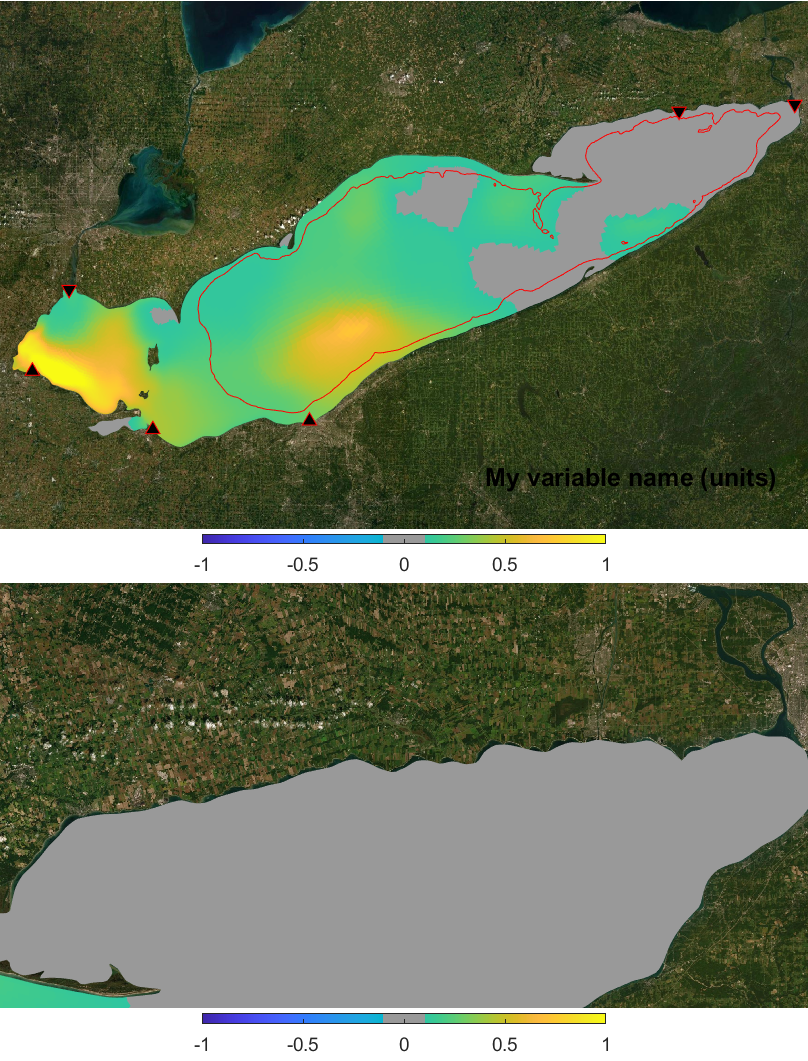
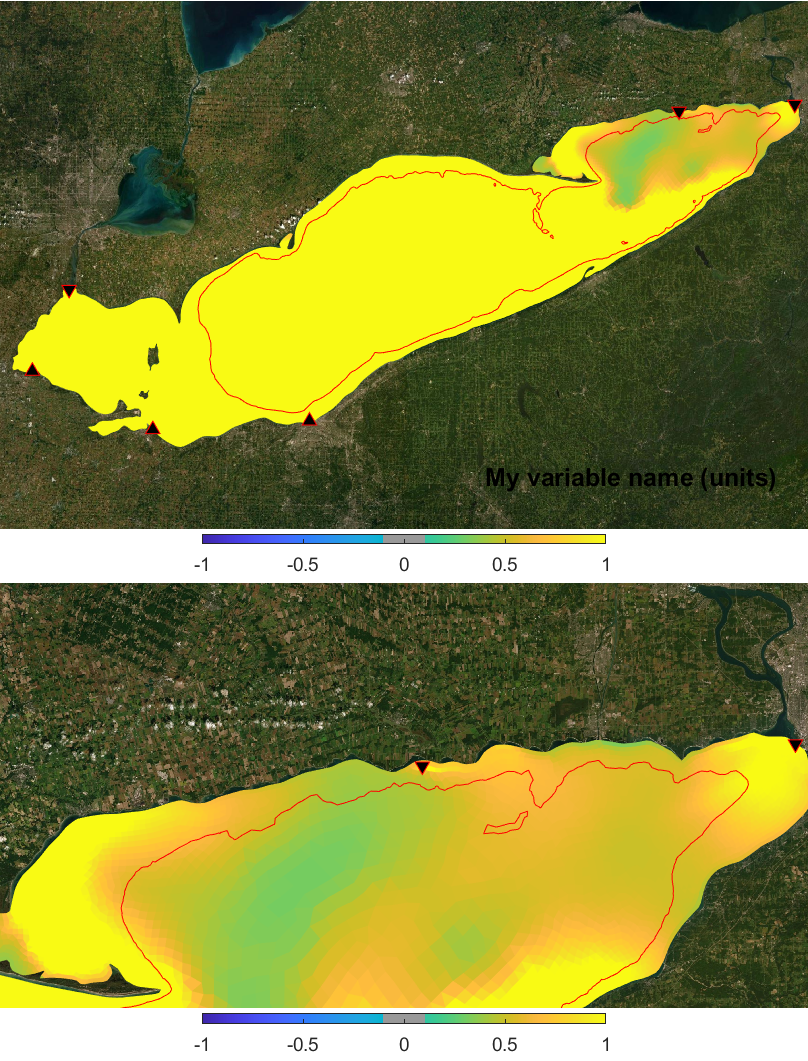
Added loops and stuff

diff --git a/matlab/Delmaps/run_plot.m b/matlab/Delmaps/run_plot.m
@@ -4,22 +4,69 @@ clear all; close all;
 ncfile1 = 'F:/Output.n/erie_AED.nc';
 ncfile2 = 'F:/Output.n/erie_AED.nc';
 
-var = 'WQ_NCS_SS1';
+varname = {...
+ 'WQ_SIL_RSI',...
+ 'WQ_NIT_AMM',...
+ 'WQ_NIT_NIT',...
+ 'WQ_BIV_FILTFRAC',...
+ 'WQ_PHS_FRP_ADS',...
+ 'WQ_OGM_DOC',...
+ 'WQ_OGM_POC',...
+ 'WQ_OGM_DON',...
+ 'WQ_OGM_PON',...
+ 
+};
 
-start_timeave = datenum(2013,05,08);
-end_timeave = datenum(2013,05,20);
+def.cAxis(1).value = [-0.001 0.001];   %'WQ_DIAG_TOT_TN',...
+def.cAxis(2).value = [0 0.25];  %'WQ_DIAG_TOT_TP',...
+def.cAxis(3).value = [0 15];   %'WQ_DIAG_TOT_TOC',...
+def.cAxis(4).value = [0 600];	%'WQ_DIAG_TOT_TSS',...
+def.cAxis(5).value = [0 750];  %'WQ_DIAG_TOT_LIGHT',...
+def.cAxis(6).value = [0 400];  %'WQ_DIAG_TOT_PAR',...
+def.cAxis(7).value = [0 50];  %'WQ_DIAG_TOT_UV',...
+def.cAxis(8).value = [0 2];   %'WQ_DIAG_TOT_EXTC',...
+def.cAxis(9).value = [0 50];   %'WQ_DIAG_PHY_TCHLA',...
 
-titletxt = 'My variable name (units)';
+def.cAxis(1).clip = [-0.001 0.001];   %'WQ_DIAG_TOT_TN',...
+def.cAxis(2).clip = [0 0.25];  %'WQ_DIAG_TOT_TP',...
+def.cAxis(3).clip = [0 15];   %'WQ_DIAG_TOT_TOC',...
+def.cAxis(4).clip = [0 600];	%'WQ_DIAG_TOT_TSS',...
+def.cAxis(5).clip = [0 750];  %'WQ_DIAG_TOT_LIGHT',...
+def.cAxis(6).clip = [0 400];  %'WQ_DIAG_TOT_PAR',...
+def.cAxis(7).clip = [0 50];  %'WQ_DIAG_TOT_UV',...
+def.cAxis(8).clip = [0 2];   %'WQ_DIAG_TOT_EXTC',...
+def.cAxis(9).clip = [0 50];   %'WQ_DIAG_PHY_TCHLA',...
 
-del_caxis = [-1 1];
-del_clip = [-0.1 0.1];
 
-outname = 'theplot.png';
+start_timeave = datenum(2013,05:10,01);
+end_timeave = datenum(2013,06:10,01);
 
-erie_delmap_v2(ncfile1,ncfile2,var,titletxt,del_caxis,del_clip,start_timeave,end_timeave,outname);
+%titletxt = 'My variable name (units)';
 
-del_caxis = [-2 2];
-del_clip = [-0.1 0.1];
+% del_caxis = [-1 1];
+% del_clip = [-0.1 0.1];
 
-outname = 'theplot2.png';
-erie_delmap_v2(ncfile1,ncfile2,var,titletxt,del_caxis,del_clip,start_timeave,end_timeave,outname);
+% outname = 'theplot.png';
+
+for i = 1:length(start_timeave)
+    for j = 1:length(varname)
+        
+        titletxt = regexprep(varname{j},'_',' ');
+        
+        outname = [datestr(start_timeave(i),'yyyy_mm_dd'),' ',varname{j},'.png'];
+       
+        erie_delmap_v2(ncfile1,ncfile2,varname{j},titletxt,def.cAxis(j).value,def.cAxis(j).clip,...
+            start_timeave(i),end_timeave(i),outname);
+    end
+end
+
+%_______________________________
+
+% erie_delmap_v2(ncfile1,ncfile2,var,titletxt,del_caxis,del_clip,start_timeave,end_timeave,outname);
+% 
+% del_caxis = [-2 2];
+% del_clip = [-0.1 0.1];
+% 
+% outname = 'theplot2.png';
+% 
+% erie_delmap_v2(ncfile1,ncfile2,var,titletxt,del_caxis,del_clip,start_timeave,end_timeave,outname);

diff --git a/matlab/Delmaps/erie_delmap_v2.m b/matlab/Delmaps/erie_delmap_v2.m
@@ -149,6 +149,14 @@ caxis(del_caxis);
 cb2 = colorbar('southoutside');
 set(cb2,'position',[0.25 0.035 0.5 0.01]);
 
+
+for i = 1:length(bc)
+    scatter(bc(i).data{2},bc(i).data{3},bc(i).data{4},'r','markerfacecolor','k');
+end
+
+%15m contour
+mapshow(shp,'color','r');
+
 % set(gcf, 'PaperPositionMode', 'manual');
 % set(gcf, 'PaperUnits', 'centimeters');
 % xSize = 16;
